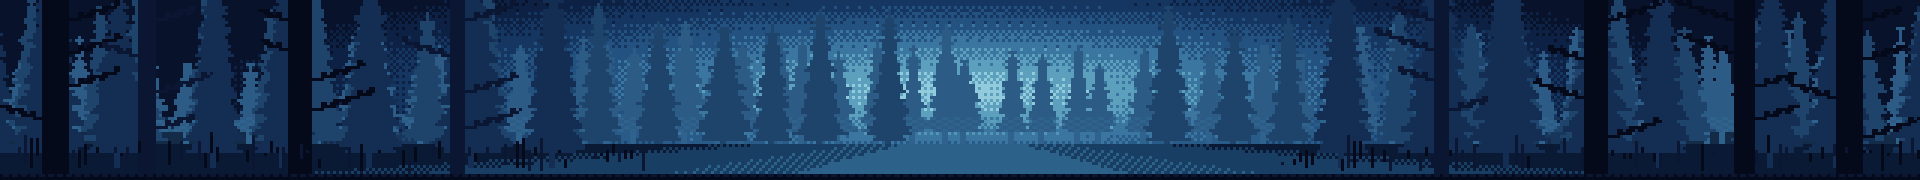
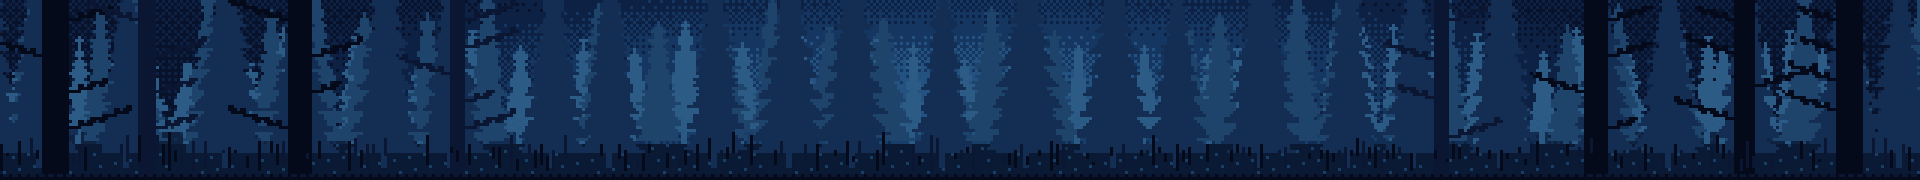
Forest: trees all the way across, no bright clearing

diff --git a/avatars/forest.py b/avatars/forest.py
@@ -1,5 +1,5 @@
-# The tab bar's backdrop: a misty twilight pine forest in layers (pale far trees fading into a glowing mist, darker mid trees,
-# near trees, black foreground trunks with branches), a lit path in the middle where the fight happens.
+# The tab bar's backdrop: a misty twilight pine forest in layers (pale far trees fading into a dim mist, darker mid trees,
+# near trees, black foreground trunks with branches). Trees all the way across: no bright clearing in the middle.
 # 640x60 art pixels, written 3x as a PNG (1920x180). python avatars/forest.py mods/kage-tabs/forest-bg.png
 import math, random, sys
 from PIL import Image, ImageDraw
@@ -18,7 +18,7 @@ px = img.load()
 for y in range(H):
     for x in range(W):
         d = math.hypot((x - 320) / 250, (y - 30) / 42)
-        t = max(0.0, 1 - d) ** 0.9 * (len(SKY) - 1)
+        t = max(0.0, 1 - d) ** 0.9 * 3.0 + (1 - y / H) * 0.4          # a dim, even mist (never the bright end of the ramp)
         lo = int(t)
         frac = t - lo
         i = min(len(SKY) - 1, lo + (1 if frac * 16 > BAYER[y % 4][x % 4] else 0))
@@ -40,23 +40,17 @@ for cx in range(-6, W + 12, 11):
 for y in range(34, HORIZON + 2):                                   # mist lying at their feet
     for x in range(W):
         if (x + y * 2) % 4 < 2 and y > 38 or y > 43:
-            r, g, b = px[x, y]; px[x, y] = tuple((a * 3 + c) // 4 for a, c in zip((r, g, b), SKY[4]))
+            r, g, b = px[x, y]; px[x, y] = tuple((a * 3 + c) // 4 for a, c in zip((r, g, b), SKY[3]))
 # mid trees, thinned out in the lit middle
 for cx in range(-8, W + 14, 19):
-    if 255 < cx < 385 and random.random() < 0.7: continue
     pine(cx + random.randint(-4, 4), 50, random.randint(40, 54), random.randint(8, 11), MID)
-# ground and the lit path
+# ground: dark, with a few paler dithered patches
 draw.rectangle([0, HORIZON + 1, W, H], fill=GROUND)
 for y in range(HORIZON + 1, H):
-    k = (y - HORIZON) / (H - HORIZON)
-    half = 70 + 190 * k
-    for x in range(int(320 - half), int(320 + half)):
-        e = abs(x - 320) / half
-        near_edge = e > 0.82
-        c = PATH_LIT if (e < 0.45 and (x + y) % 3 == 0 or e < 0.25) else PATH
-        px[x, y] = GROUND if near_edge and (x + y) % 2 else c
-# near trees along both sides
-for cx in list(range(-10, 190, 27)) + list(range(450, W + 14, 27)):
+    for x in range(W):
+        if (x * 7 + y * 13) % 11 == 0 and (x + y) % 2 == 0: px[x, y] = PATH
+# near trees, all the way across
+for cx in range(-10, W + 14, 27):
     pine(cx + random.randint(-5, 5), 55, random.randint(58, 74), random.randint(11, 15), NEAR, 4)
 # foreground: black trunks with sparse branches and needle tufts, left and right, plus bushes
 def trunk(x, w, color):
@@ -70,7 +64,7 @@ def trunk(x, w, color):
                 for dy, dx in ((-1, 0), (1, 0), (0, side), (-1, side), (1, -side)): draw.point((bx + dx, by + dy), fill=color)
 for x, w in ((14, 9), (46, 6), (96, 8), (150, 5)): trunk(x, w, DEEP if w > 6 else FORE)
 for x, w in ((612, 9), (578, 7), (528, 8), (478, 5)): trunk(x, w, DEEP if w > 6 else FORE)
-for x in list(range(0, 215, 2)) + list(range(425, W, 2)):           # grass and ferns along the path
+for x in range(0, W, 2):                                            # grass and ferns
     if random.random() < 0.55:
         h = random.randint(2, 6)
         draw.line([(x, H - 4 - random.randint(0, 6)), (x, H - 4 - random.randint(0, 6) - h)], fill=DEEP if random.random() < 0.6 else FORE)
